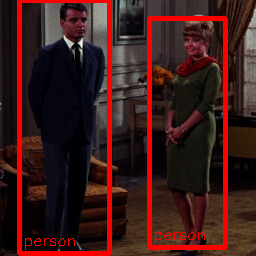
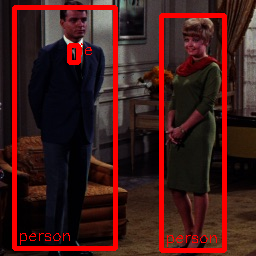
Fix yolov2 anchors

Changed region(s): [[0.5625, 0.0312, 0.9062, 1.0], [0.0312, 0.0, 0.4688, 1.0], [0.25, 0.1562, 0.375, 0.2812]]

diff --git a/yolov2/yolov2.py b/yolov2/yolov2.py
@@ -24,10 +24,11 @@ print("loading ...");
 
 # detector initialize
 env_id = ailia.get_gpu_environment_id()
-categories = 20
+categories = 80
 detector = ailia.Detector(model_path, weight_path, categories, format=ailia.NETWORK_IMAGE_FORMAT_RGB, channel=ailia.NETWORK_IMAGE_CHANNEL_FIRST, range=ailia.NETWORK_IMAGE_RANGE_S_FP32, algorithm=ailia.DETECTOR_ALGORITHM_YOLOV2, env_id=env_id)
 
-anchors=numpy.array([1.08, 1.19, 3.42, 4.41, 6.63, 11.38, 9.42, 5.11, 16.62, 10.52])    #voc anchors
+anchors=numpy.array([0.57273, 0.677385, 1.87446, 2.06253, 3.33843, 5.47434, 7.88282, 3.52778, 9.77052, 9.16828])    #coco anchors
+
 detector.set_anchors(anchors)
 
 # load input image and convert to BGRA
@@ -51,27 +52,20 @@ iou = 0.45
 detector.compute(img, threshold, iou)
 
 # category
-voc_category=[
-    "aeroplane",
-    "bicycle",
-    "bird",
-    "boat",
-    "bottle",
-    "bus",
-    "car",
-    "cat",
-    "chair",
-    "cow",
-    "diningtable",
-    "dog",
-    "horse",
-    "motorbike",
-    "person",
-    "pottedplant",
-    "sheep",
-    "sofa",
-    "train",
-    "tvmonitor"
+coco_category=[
+	"person", "bicycle", "car", "motorcycle", "airplane", "bus", "train",
+	"truck", "boat", "traffic light", "fire hydrant", "stop sign",
+	"parking meter", "bench", "bird", "cat", "dog", "horse", "sheep", "cow",
+	"elephant", "bear", "zebra", "giraffe", "backpack", "umbrella",
+	"handbag", "tie", "suitcase", "frisbee", "skis", "snowboard",
+	"sports ball", "kite", "baseball bat", "baseball glove", "skateboard",
+	"surfboard", "tennis racket", "bottle", "wine glass", "cup", "fork",
+	"knife", "spoon", "bowl", "banana", "apple", "sandwich", "orange",
+	"broccoli", "carrot", "hot dog", "pizza", "donut", "cake", "chair",
+	"couch", "potted plant", "bed", "dining table", "toilet", "tv",
+	"laptop", "mouse", "remote", "keyboard", "cell phone", "microwave",
+	"oven", "toaster", "sink", "refrigerator", "book", "clock", "vase",
+	"scissors", "teddy bear", "hair drier", "toothbrush"
 ]
 
 # get result
@@ -83,7 +77,7 @@ for idx  in range(count) :
     # print result
     print("+ idx=" + str(idx))
     obj = detector.get_object(idx)
-    print("  category=" + str(obj.category) + "[ " + voc_category[obj.category] + " ]" )
+    print("  category=" + str(obj.category) + "[ " + coco_category[obj.category] + " ]" )
     print("  prob=" + str(obj.prob) )
     print("  x=" + str(obj.x) )
     print("  y=" + str(obj.y) )
@@ -95,7 +89,7 @@ for idx  in range(count) :
 
     # update image
     cv2.rectangle( work, top_left, bottom_right, (0, 0, 255, 255), 4)
-    cv2.putText( work, voc_category[obj.category], text_position, cv2.FONT_HERSHEY_SIMPLEX, 0.5, (0, 0, 255, 255), 1)
+    cv2.putText( work, coco_category[obj.category], text_position, cv2.FONT_HERSHEY_SIMPLEX, 0.5, (0, 0, 255, 255), 1)
 
 # save image
 cv2.imwrite( "output.png", work)

diff --git a/README.md b/README.md
@@ -33,6 +33,7 @@ The collection of pre-trained, state-of-the-art models.
 |:-----------|------------:|:------------:|:------------:|
 | [yolov1-tiny](/yolov1-tiny/) | [YOLO: Real-Time Object Detection](https://pjreddie.com/darknet/yolov1/) | Darknet | 1.1.0  |
 | [yolov1-face](/yolov1-face/) | [YOLO-Face-detection](https://github.com/dannyblueliu/YOLO-Face-detection/) | Darknet | 1.1.0  |
+| [yolov2](/yolov2/) | [YOLO: Real-Time Object Detection](https://pjreddie.com/darknet/yolo/) | Pytorch | 1.2.0  |
 | [yolov3](/yolov3/) | [YOLO: Real-Time Object Detection](https://pjreddie.com/darknet/yolo/) | ONNX Runtime | 1.2.1 beta  |
 | [yolov3-tiny](/yolov3-tiny/) | [YOLO: Real-Time Object Detection](https://pjreddie.com/darknet/yolo/) | Keras | 1.2.1 beta  |
 | [yolov3-face](/yolov3-face/) | [Face detection using keras-yolov3](https://github.com/axinc-ai/yolov3-face) | Keras | 1.2.1 beta  |
